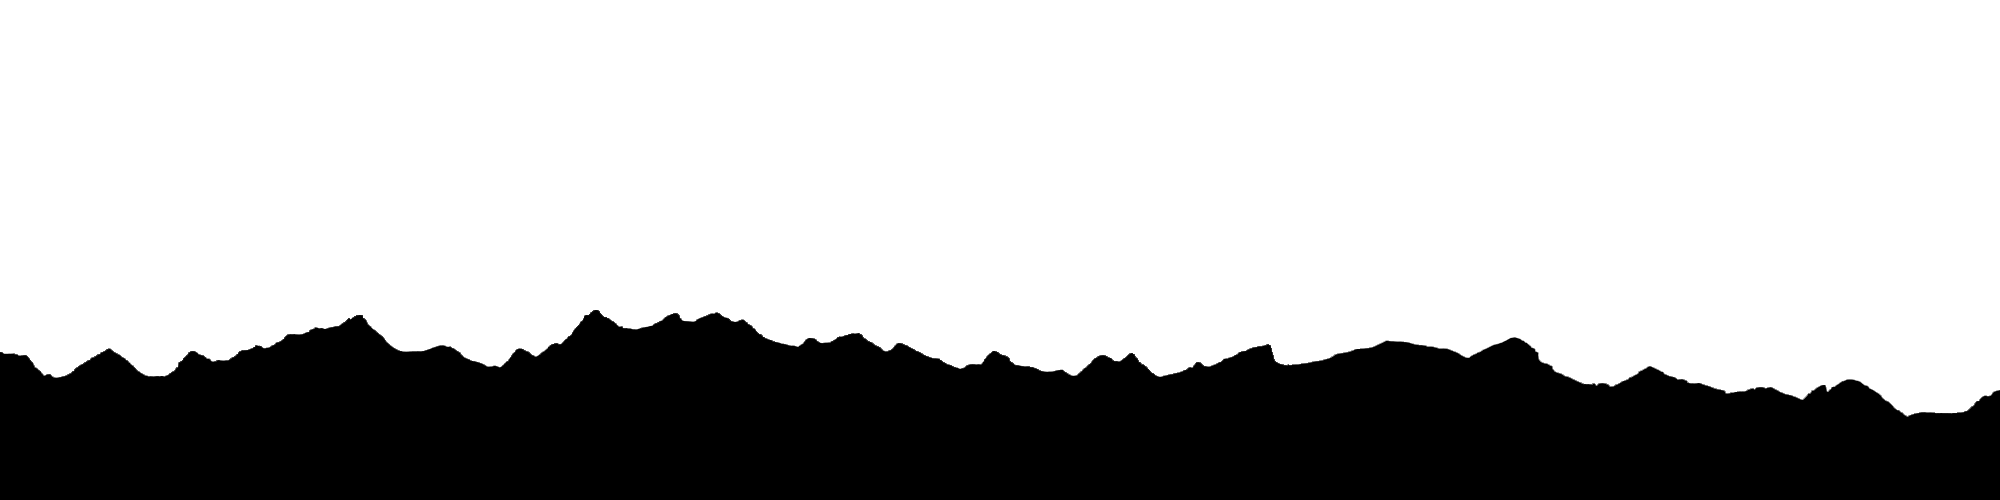
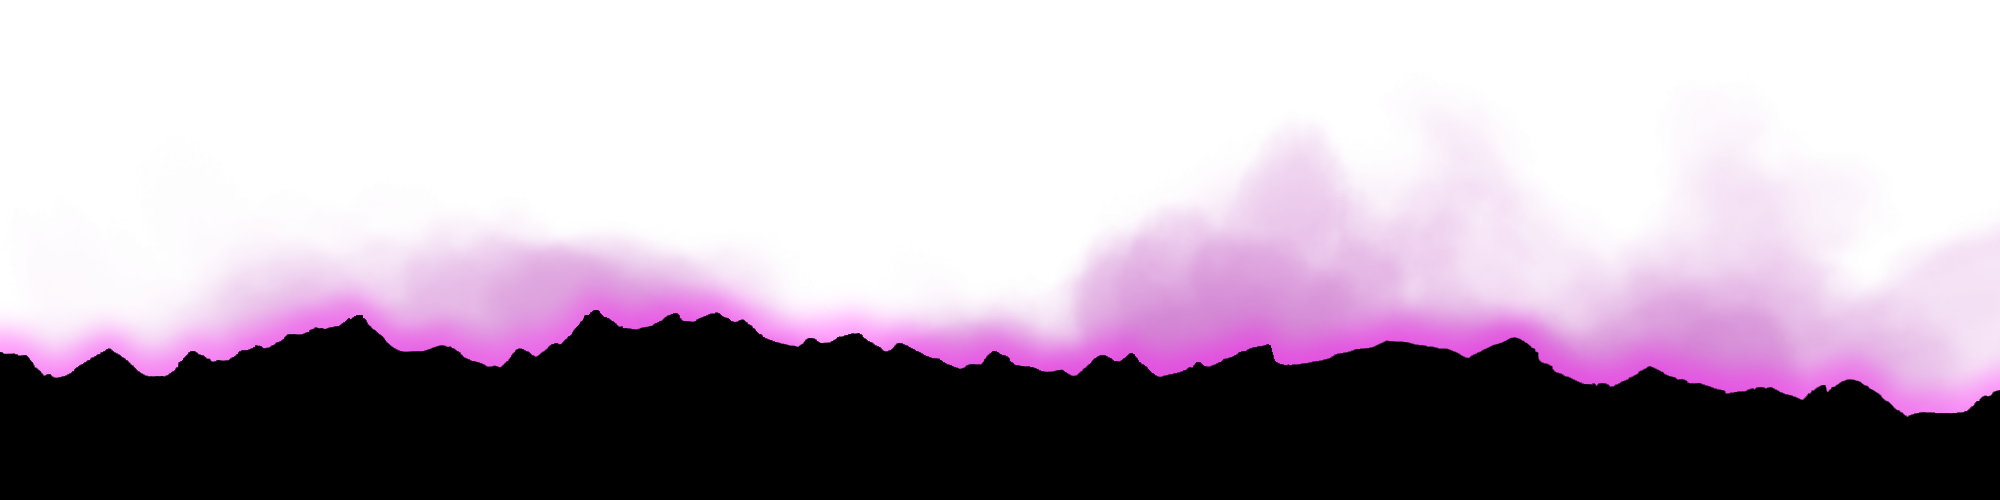
parallax reorganized, pics

Changed region(s): [[0.0, 0.27, 1.0, 0.84]]

diff --git a/stylesheets/sass/main.css b/stylesheets/sass/main.css
@@ -1,176 +1,37 @@
-/* Welcome to Compass.
- * In this file you should write your main styles. (or centralize your imports)
- * Import this file using the following HTML or equivalent:
- * <link href="/stylesheets/main.css" media="main, projection" rel="stylesheet" type="text/css" /> */
-/* line 5, ../../../../../../Library/Ruby/Gems/2.0.0/gems/compass-core-1.0.3/stylesheets/compass/reset/_utilities.scss */
-html, body, div, span, applet, object, iframe,
-h1, h2, h3, h4, h5, h6, p, blockquote, pre,
-a, abbr, acronym, address, big, cite, code,
-del, dfn, em, img, ins, kbd, q, s, samp,
-small, strike, strong, sub, sup, tt, var,
-b, u, i, center,
-dl, dt, dd, ol, ul, li,
-fieldset, form, label, legend,
-table, caption, tbody, tfoot, thead, tr, th, td,
-article, aside, canvas, details, embed,
-figure, figcaption, footer, header, hgroup,
-menu, nav, output, ruby, section, summary,
-time, mark, audio, video {
-  margin: 0;
-  padding: 0;
-  border: 0;
-  font: inherit;
-  font-size: 100%;
-  vertical-align: baseline;
-}
+/*
+Error: Invalid CSS after "...css3/font-face"": expected selector or at-rule, was "@import "base";"
+        on line 9 of /Users/terren/Sites/tkrietzman.github.io/sass/sass/main.scss
 
-/* line 22, ../../../../../../Library/Ruby/Gems/2.0.0/gems/compass-core-1.0.3/stylesheets/compass/reset/_utilities.scss */
-html {
-  line-height: 1;
-}
+4:  * <link href="/stylesheets/main.css" media="main, projection" rel="stylesheet" type="text/css" /> *\/
+5: 
+6: @import "compass/reset";
+7: @import "compass/css3/box-shadow";
+8: @import "compass/css3/font-face"
+9: @import "base";
+10: @import "parallax";
+11: @import "home";
 
-/* line 24, ../../../../../../Library/Ruby/Gems/2.0.0/gems/compass-core-1.0.3/stylesheets/compass/reset/_utilities.scss */
-ol, ul {
-  list-style: none;
-}
-
-/* line 26, ../../../../../../Library/Ruby/Gems/2.0.0/gems/compass-core-1.0.3/stylesheets/compass/reset/_utilities.scss */
-table {
-  border-collapse: collapse;
-  border-spacing: 0;
-}
-
-/* line 28, ../../../../../../Library/Ruby/Gems/2.0.0/gems/compass-core-1.0.3/stylesheets/compass/reset/_utilities.scss */
-caption, th, td {
-  text-align: left;
-  font-weight: normal;
-  vertical-align: middle;
-}
-
-/* line 30, ../../../../../../Library/Ruby/Gems/2.0.0/gems/compass-core-1.0.3/stylesheets/compass/reset/_utilities.scss */
-q, blockquote {
-  quotes: none;
-}
-/* line 103, ../../../../../../Library/Ruby/Gems/2.0.0/gems/compass-core-1.0.3/stylesheets/compass/reset/_utilities.scss */
-q:before, q:after, blockquote:before, blockquote:after {
-  content: "";
-  content: none;
-}
-
-/* line 32, ../../../../../../Library/Ruby/Gems/2.0.0/gems/compass-core-1.0.3/stylesheets/compass/reset/_utilities.scss */
-a img {
-  border: none;
-}
-
-/* line 116, ../../../../../../Library/Ruby/Gems/2.0.0/gems/compass-core-1.0.3/stylesheets/compass/reset/_utilities.scss */
-article, aside, details, figcaption, figure, footer, header, hgroup, main, menu, nav, section, summary {
-  display: block;
-}
-
-/* As hex codes */
-/* As hex codes */
-/* line 11, ../../sass/sass/_base.scss */
-html {
-  overflow: hidden;
-}
-
-/* line 15, ../../sass/sass/_base.scss */
-body {
-  background-image: url("../../images/background-stars.png");
-  background: #0C191D;
-  color: #0EAFE9;
-  font-family: "Droid Serif", serif;
-  height: 4000px;
-}
-
-/* line 23, ../../sass/sass/_base.scss */
-header {
-  padding-top: 30px;
-  width: 960px;
-  margin-left: auto;
-  margin-right: auto;
-}
-/* line 29, ../../sass/sass/_base.scss */
-header img {
-  width: 960px;
-}
-
-/* line 36, ../../sass/sass/_base.scss */
-.content {
-  margin-left: auto;
-  margin-right: auto;
-  width: 960px;
-  background-color: #0C191D;
-  background-image: linear-gradient(0deg, transparent 24%, #75c4eb 25%, #75c4eb 26%, transparent 27%, transparent 74%, #75c4eb 75%, #75c4eb 76%, transparent 77%, transparent), linear-gradient(90deg, transparent 24%, #75c4eb 25%, #75c4eb 26%, transparent 27%, transparent 74%, #75c4eb 75%, #75c4eb 76%, transparent 77%, transparent);
-  background-size: 80px 80px;
-  margin-top: 100px;
-  border: 5px solid #0EAFE9;
-}
-
-/* line 51, ../../sass/sass/_base.scss */
-.module {
-  border: 5px solid #0EAFE9;
-  background-color: #0C191D;
-}
-
-/* line 56, ../../sass/sass/_base.scss */
-.footer {
-  text-align: center;
-}
-
-/* line 3, ../../sass/sass/_parallax.scss */
-.parallax {
-  perspective: 1px;
-  height: 100vh;
-  overflow-x: hidden;
-  overflow-y: auto;
-  perspective-origin-x: 100%;
-}
-
-/* line 10, ../../sass/sass/_parallax.scss */
-.parallax-layer {
-  position: absolute;
-  top: 0;
-  right: 0;
-  bottom: 0;
-  left: 0;
-  transform-origin-x: 100%;
-}
-
-/* line 19, ../../sass/sass/_parallax.scss */
-.parallax-layer-2 {
-  transform: translateZ(-4px) scale(5);
-}
-
-/* line 23, ../../sass/sass/_parallax.scss */
-.parallax-layer-1 {
-  transform: translateZ(-1px) scale(2);
-}
-
-/* line 27, ../../sass/sass/_parallax.scss */
-.parallax-layer-back {
-  transform: translateZ(-8px) scale(9);
-}
-
-/* line 30, ../../sass/sass/_parallax.scss */
-.parallax__group {
-  position: relative;
-  height: 100vh;
-  transform-style: preserve-3d;
-}
-
-/* line 1, ../../sass/sass/_home.scss */
-.first {
-  width: 900px;
-  height: 400px;
-  top: 0;
-  left: 350px;
-}
-
-/* line 8, ../../sass/sass/_home.scss */
-.second {
-  width: 900px;
-  height: 400px;
-  top: 2000px;
-  left: 650px;
-}
+Backtrace:
+/Users/terren/Sites/tkrietzman.github.io/sass/sass/main.scss:9
+/Library/Ruby/Gems/2.0.0/gems/sass-3.4.9/lib/sass/scss/parser.rb:1165:in `expected'
+/Library/Ruby/Gems/2.0.0/gems/sass-3.4.9/lib/sass/scss/parser.rb:1101:in `expected'
+/Library/Ruby/Gems/2.0.0/gems/sass-3.4.9/lib/sass/scss/parser.rb:43:in `parse'
+/Library/Ruby/Gems/2.0.0/gems/sass-3.4.9/lib/sass/engine.rb:393:in `_to_tree'
+/Library/Ruby/Gems/2.0.0/gems/sass-3.4.9/lib/sass/engine.rb:268:in `render'
+/Library/Ruby/Gems/2.0.0/gems/sass-3.4.9/lib/sass/plugin/compiler.rb:492:in `update_stylesheet'
+/Library/Ruby/Gems/2.0.0/gems/sass-3.4.9/lib/sass/plugin/compiler.rb:215:in `block in update_stylesheets'
+/Library/Ruby/Gems/2.0.0/gems/sass-3.4.9/lib/sass/plugin/compiler.rb:209:in `each'
+/Library/Ruby/Gems/2.0.0/gems/sass-3.4.9/lib/sass/plugin/compiler.rb:209:in `update_stylesheets'
+/Library/Ruby/Gems/2.0.0/gems/sass-3.4.9/lib/sass/plugin/compiler.rb:470:in `on_file_changed'
+/Library/Ruby/Gems/2.0.0/gems/sass-3.4.9/lib/sass/plugin/compiler.rb:328:in `block in watch'
+/Library/Ruby/Gems/2.0.0/gems/listen-2.8.5/lib/listen/listener.rb:282:in `call'
+/Library/Ruby/Gems/2.0.0/gems/listen-2.8.5/lib/listen/listener.rb:282:in `_process_changes'
+/Library/Ruby/Gems/2.0.0/gems/listen-2.8.5/lib/listen/listener.rb:246:in `block in _wait_for_changes'
+/Library/Ruby/Gems/2.0.0/gems/listen-2.8.5/lib/listen/listener.rb:229:in `loop'
+/Library/Ruby/Gems/2.0.0/gems/listen-2.8.5/lib/listen/listener.rb:229:in `_wait_for_changes'
+/Library/Ruby/Gems/2.0.0/gems/listen-2.8.5/lib/listen/listener.rb:318:in `block in _start_wait_thread'
+*/
+body:before {
+  white-space: pre;
+  font-family: monospace;
+  content: "Error: Invalid CSS after \"...css3/font-face\"\": expected selector or at-rule, was \"@import \"base\";\"\A         on line 9 of /Users/terren/Sites/tkrietzman.github.io/sass/sass/main.scss\A \A 4:  * <link href=\"/stylesheets/main.css\" media=\"main, projection\" rel=\"stylesheet\" type=\"text/css\" /> */\A 5: \A 6: @import \"compass/reset\";\A 7: @import \"compass/css3/box-shadow\";\A 8: @import \"compass/css3/font-face\"\A 9: @import \"base\";\A 10: @import \"parallax\";\A 11: @import \"home\";"; }

diff --git a/sass/sass/_base.scss b/sass/sass/_base.scss
@@ -13,30 +13,24 @@ html{
 }
 
 body{
-	background-image: url('../../images/background-stars.png');
-	background: $background;
+	background: black;
 	color: $main;
 	font-family: $body-font;
 	height:4000px;
 }
 
-header{
-	padding-top:30px;		
-	width: 960px;
-	margin-left: auto;
-	margin-right: auto;		
-		
-	img{
+.title{
+		padding-top: 20px;
+		padding-bottom: 20px;
 		width:960px;
-	}
 }
 
-
+.grid-title{
+	width: 960px;
+}
 
 .content{
-	margin-left: auto;
-	margin-right: auto;
-	width: 960px;
+	height: 100%;
 	background-color: $background;
     background-image: linear-gradient(0deg, transparent 24%, rgba(117,196,235,1) 25%, 
     	rgba(117,196,235,1) 26%, transparent 27%, transparent 74%, rgba(117,196,235,1) 75%, 
@@ -44,7 +38,6 @@ header{
     	rgba(117,196,235,1) 25%, rgba(117,196,235,1) 26%, transparent 27%, transparent 74%, 
     	rgba(117,196,235,1) 75%, rgba(117,196,235,1) 76%, transparent 77%, transparent);
   	background-size:80px 80px;
-	margin-top: 100px; 
 	border: $basic-border;
 }
 
@@ -55,4 +48,21 @@ header{
 
 .footer{
 	text-align: center;
+}
+
+.mtn{
+	width:100%;
+	height:100%;
+	background-image: url('../../images/mountains.png');
+	background-repeat:no-repeat;
+	position:absolute;
+	top:50%;
+	z-index: -999px;
+}
+
+.profile{
+	height: 350px; // 3/4 of div height
+	border: $basic-border;
+	margin-left: 20px;
+	margin-top: 20px;
 }

diff --git a/index.html b/index.html
@@ -4,22 +4,33 @@
 	<meta charset="utf-8">
 	<title>Terren Sky Krietzman</title>
 	<link rel="stylesheet" href="stylesheets/sass/main.css">
-	<link href='http://fonts.googleapis.com/css?family=Droid+Serif:400,700' rel='stylesheet' type='text/css'>
 </head>
 <body>
-	<header>
-		<img src="images/terren-title.png" alt="TERREN SKY">
-	</header>
-	<div class="footer"> 
-		This is a footer.
-	</div>
-	<div class="parallax">
-		<div class="parallax-layer parallax-layer-back content">
-		</div>
-		<div class="parallax-layer parallax-layer-1 module first">		
-		</div>
-		<div class="parallax-layer parallax-layer-1 module second">		
-		</div>
+
+	<div class="mtn"></div>
+	<div class="parallax">	
+		<div class="parallax-group">
+			
+			<div class=" grid-title parallax-layer parallax-layer-back">			
+				<img class="title" src="images/terren-title.png" alt="TERREN SKY"/>
+				<div class="content">
+				</div>
+			</div>	
+			<div class="parallax-layer parallax-layer-1 module first">		
+					<img class="profile" src="images/face.png" alt="Terren's Face">
+					<div class="nav">
+						<ul>
+							<li></li>
+							<li></li>
+							<li></li>
+							<li></li>
+						</ul>
+					</div>
+			</div>
+			<div class="parallax-layer parallax-layer-1 module second">		
+			</div>
+		</div> <!-- close group 1-->
+
 	</div>
 
 </body>

diff --git a/sass/sass/_home.scss b/sass/sass/_home.scss
@@ -1,13 +1,13 @@
 .first{
 	width: 900px;
 	height: 400px;
-	top: 0;
-	left: 350px;	
+	top: 50px;
+	left: 250px;	
 }
 
 .second{
 	width: 900px;
-	height: 400px;
-	top: 2000px;
-	left: 650px;
+	height: 300px;
+	top: 1000px;
+	left: 600px;
 }

diff --git a/sass/sass/_parallax.scss b/sass/sass/_parallax.scss
@@ -27,6 +27,7 @@ $perspective: 1;
 .parallax-layer-back {
   transform: translateZ(-8px) scale((1 + (-8 * -1) / $perspective));
 }
+
 .parallax__group {
   position: relative;
   height: 100vh;

diff --git a/sass/sass/main.scss b/sass/sass/main.scss
@@ -5,6 +5,7 @@
 
 @import "compass/reset";
 @import "compass/css3/box-shadow";
+@import "compass/css3/font-face"
 @import "base";
 @import "parallax";
 @import "home";
